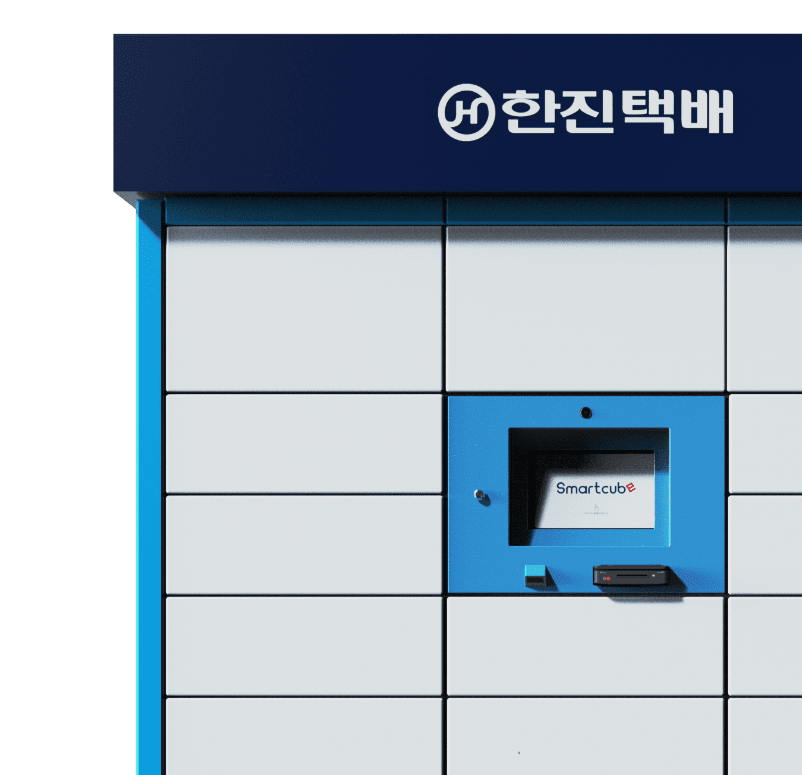
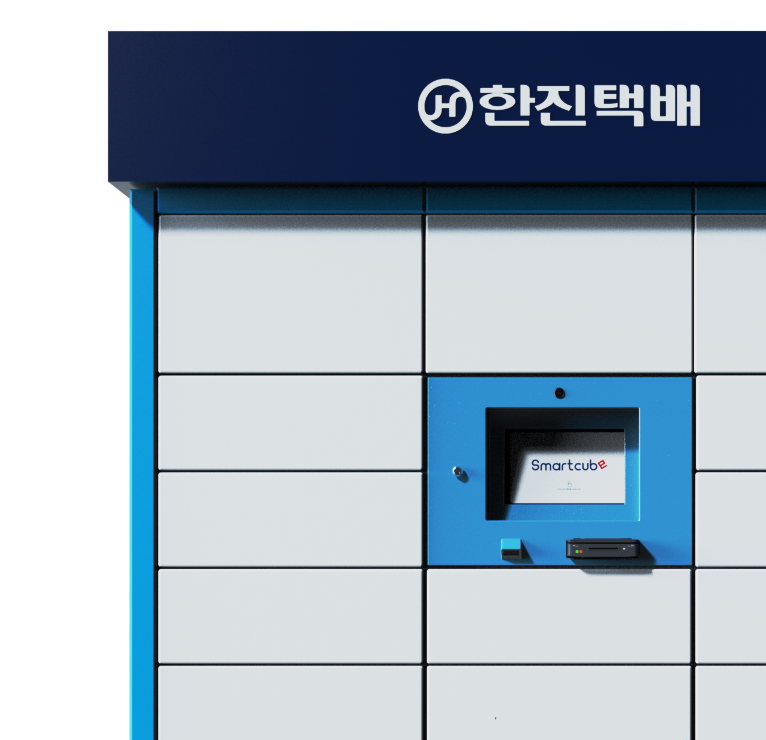
layout finishing

diff --git a/sub-style.css b/sub-style.css
@@ -126,7 +126,7 @@ body {
     width: 23vw;
   /* height: 24px; */
   /* margin: 0 0 13px; */
-  opacity: 0.4;
+  opacity: 0.8;
   /* font-family: Pretendard; */
   font-size: 1.042vw;
   font-weight: normal;
@@ -258,10 +258,10 @@ body {
   }
   section {
     /* background: #7f7f7f; */
-    position: absolute;
+    /* position: absolute; */
     display: none;
-    top: 13.889vw;
-    right: 0;
+    /* top: 13.889vw;
+    right: 0; */
     width: 100%;
     height: 75%;
     /* overflow: hidden; */
@@ -276,14 +276,14 @@ body {
     width: 100%;
     /* opacity: 0.3; */
     list-style: none;
-  font-size: 1.927vw;
-  font-weight: 500;
-  font-stretch: normal;
-  font-style: normal;
-  /* line-height: 1.19; */
-  letter-spacing: normal;
-  text-align: left;
-  color: #bfbfbf;
+    font-size: 1.927vw;
+    font-weight: 500;
+    font-stretch: normal;
+    font-style: normal;
+    /* line-height: 1.19; */
+    letter-spacing: normal;
+    text-align: left;
+    color: #bfbfbf;
   }
   li {
     float: left; 
@@ -293,6 +293,7 @@ body {
     /* line-height: 32px;
     margin-bottom: 10px; */
     /* text-align: center; */
+    font-weight: bold;
     cursor: pointer;
   }
   .active {
@@ -302,61 +303,64 @@ body {
   .artic-group{
     /* background: #ffaaaa6e; */
     width: 60%;
-      margin-top: 34.5vh;
+      /* margin-top: 34.5vh; */
+      /* height: 42.741vw; */
+
+      /* display: flex;
+      flex-direction: column; */
   }
-  .artic-group-up{
+  /* .artic-group-up{
     width: 60%;
     margin-top: 26.259vh;
-  }
+  } */
   .artic-title{
     /* background: #ffaaaa6e; */
-
+    /* width: 100%; */
+    /* width: 50vw; */
     /* width: 47.656vw; */
     /* height: 89px; */
+      height: 50.926vh;
+
     font-size: 3.906vw;
     font-weight: 800;
     font-stretch: normal;
     font-style: normal;
     letter-spacing: normal;
-    text-align: left;
+   
+    display:table-cell;
+    vertical-align: bottom;
   }
-  .color-bluel{
+  .color-blue1{
     color: #3387bf;
   }
   .color-purple{
     color: #76659b;
   }
-  .artic-img-width2{
-    width: 36.510vw;
-  }
   .color-purple2{
     color: #535383;
-  }
-  .artic-img-width3{
-    width: 41.771vw;
   }
   .color-blue2{
     color: #337ec9;
   }
-  .artic-img-width4{
-    width: 41.771vw;
-  }
   .artic-title-icon{
     /* background: #ffaaaa6e; */
-
     width: 1.620vw;
     height: 1.620vw;
-    /* margin: 0 38.927vw 5.490vw 0; */
-    /* object-fit: contain; */
     position: absolute;
-    left: -1.1%;
-    /* padding-bottom: 5px; */
-    bottom: 52.8%;
-    /* transform: translate(-0%, -0%); */
+    left: -1.4%;
+    bottom: 39.6%;
+  }
+  .artic-title-icon-safebox{
+    /* background: #ffaaaa6e; */
+    width: 1.620vw;
+    height: 1.620vw;
+    position: absolute;
+    left: -1.14%;
+    bottom: 39.6%;
   }
   .artic-text{
     /* background: #ffaaaa6e; */
-
+    /* height: 8.889vh; */
     margin-top: 2.315vh;
     /* width: 623px; */
     /* height: 71px; */
@@ -372,7 +376,7 @@ body {
   }
   .artic-button{
     /* background: #ffaaaa6e; */
-    margin-top: 5.750vh;
+    margin-top: 6.667vh;
 
     /* width: 119px; */
     /* width: 6.198vw; */
@@ -396,13 +400,16 @@ body {
     /* border-color: 2px #d61f26; */
       /* width: 680px;
       height: 720px; */
-      width: 137.656vw;
+      /* width: 137.656vw; */
+      width: 39.323vw;
       /* height: 158.519vh; */
 
       position: absolute;
-    top: 61.4vh;
-    left: 80.7vw;
-    transform: translate(-50%, -50%);
+      /* top: 61.4vh;
+      left: 80.7vw; */
+      right: 0%;
+      bottom: 0%;
+      transform: translate(-0%, -0%);
   }
   .artic-img2{
     /* border-color: 20px #d61f26; */

diff --git a/product-sub-laundrybox.html b/product-sub-laundrybox.html
@@ -76,19 +76,18 @@
             <li data-rel="3">Smart Locker</li>
             <li data-rel="4">원클릭 박스</li>
         </nav>
-        <!-- hidden수정예정 -->
-          <section style="overflow: hidden;">
+          <section>
             <article>
                 <img class="artic-img" src="img/product_box25.png" alt="">
 
                 <div class="artic-group">
-                    <div class="artic-title color-bluel">
+                    <div class="artic-title color-blue1">
                         <!-- 비대면 사회의 새로운 트랜드 -->
                         <img class="artic-title-icon" src="img/icon_product_snow.png" alt="">
-                        냉장, 신선식품 보관을 간편하게
+                            냉장, 신선식품 보관을 간편하게
                     </div>
                     <div class="artic-text">
-                        온라인 몰에서 구매한 상온 물품은 물론, 신선식품·냉장식품 <br> 배달, 보관, 찾기 <span style="font-size: 7px; color:red">(눈아이콘 수정예정)</span> 
+                        온라인 몰에서 구매한 상온 물품은 물론, 신선식품·냉장식품 <br> 배달, 보관, 찾기 
                     </div>
                     <div>
                         <button class="artic-button">
@@ -102,10 +101,10 @@
         
           <section>
             <article>
-                <img class="artic-img2 artic-img-width2" src="img/product_safebox.png" alt="">
+                <img class="artic-img" src="img/product_safebox.png" alt="">
                 <div class="artic-group">
                     <div class="artic-title color-purple">
-                        <img class="artic-title-icon" src="img/icon_product_safebox.png" alt="">
+                        <img class="artic-title-icon-safebox" src="img/icon_product_safebox.png" alt="">
                         시민의 안전과 편의를 위한
                     </div>
                     <div class="artic-text">
@@ -126,7 +125,7 @@
 
           <section>
             <article>
-                <img class="artic-img2 artic-img-width3" src="img/product_smartlocker.png" alt="">
+                <img class="artic-img" src="img/product_smartlocker.png" alt="">
                 <div class="artic-group-up">
                     <div class="artic-title color-purple2">
                         결제는 온라인! <br>
@@ -150,7 +149,7 @@
 
           <section>
             <article>
-                <img class="artic-img2 artic-img-width4" src="img/product_oneclick.png" alt="">
+                <img class="artic-img" src="img/product_oneclick.png" alt="">
                 <div class="artic-group-up">
                     <div class="artic-title color-blue2">
                         결제는 온라인! <br>
@@ -192,7 +191,7 @@
                         다양한 결제 시스템
                     </div>
                     <div class="hori-item-text2">
-                        카드 결제를 비롯해 스마트<br>폰 간편결제 등 다양한 결<br>제 모듈 지원
+                        카드 결제를 비롯해 스마트<br>폰 간편결제 등 다양한 결제<br> 모듈 지원
                     </div>
                     <img class="hori-item-icon" src="img/icon_procuct_function_2.png" alt="">
     
